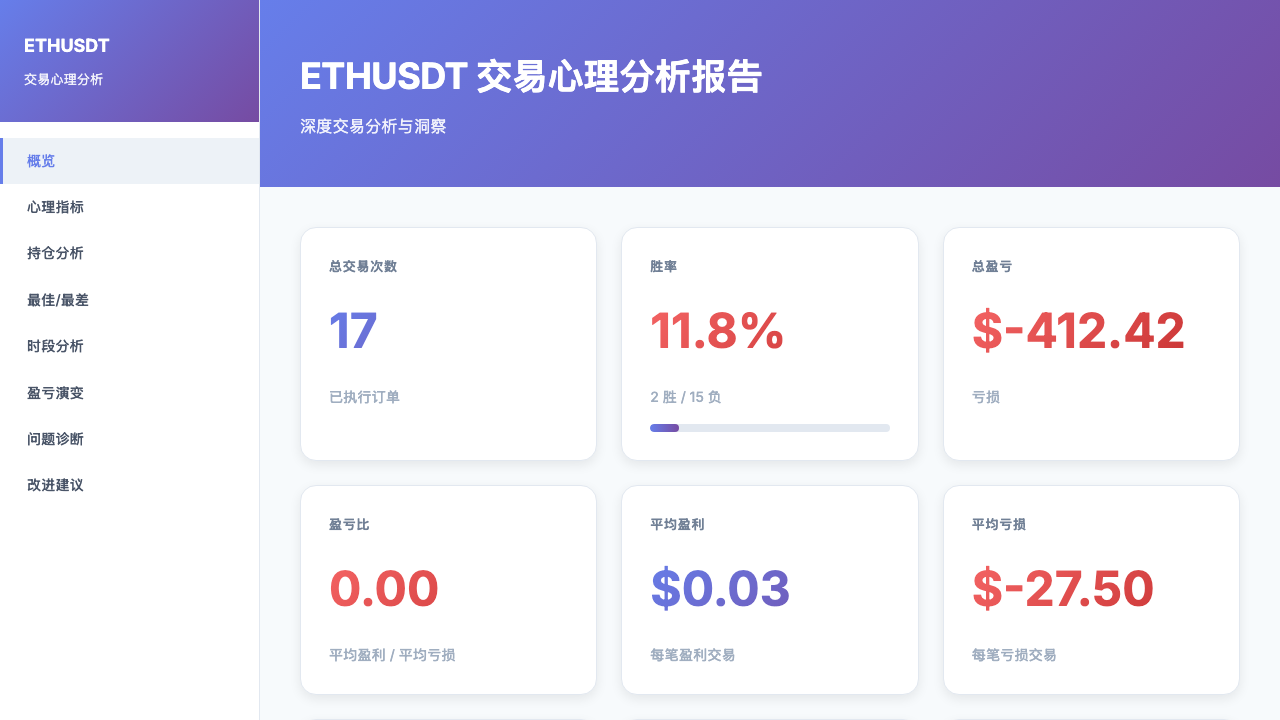
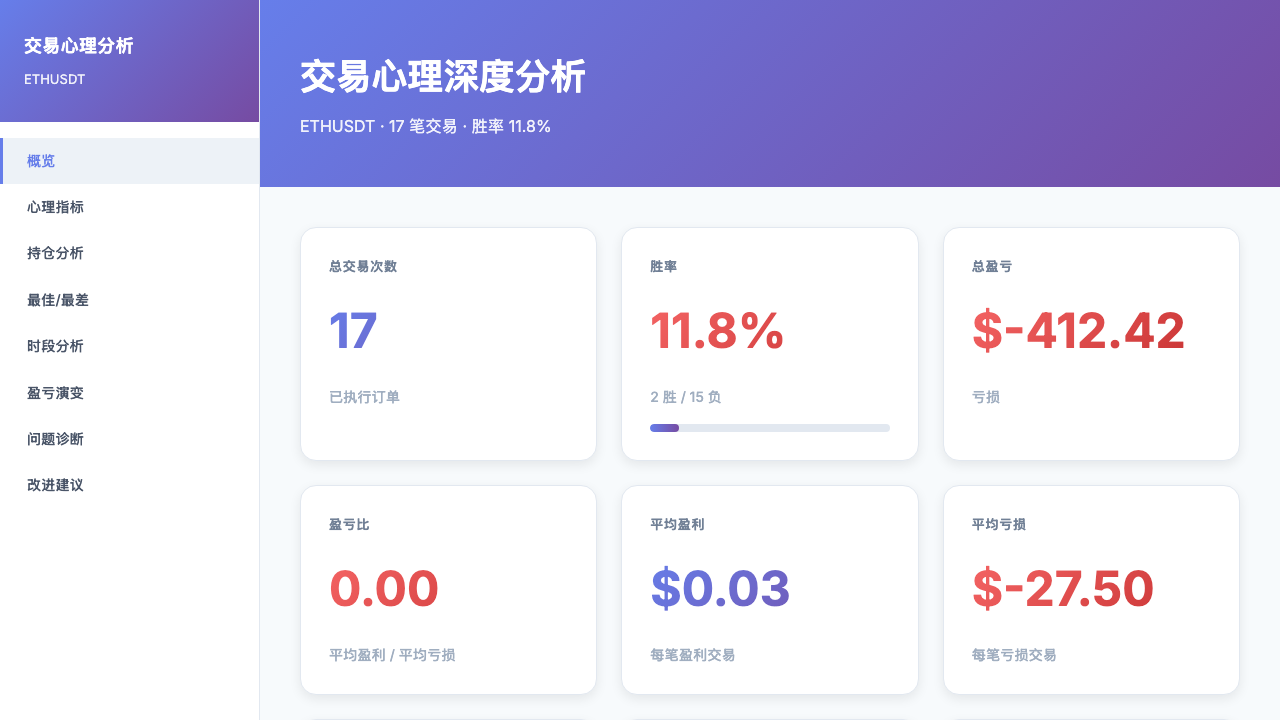
更新标题和副标题
- 主标题：交易心理深度分析
- 副标题：显示交易对、交易数、胜率
- 侧边栏：交易心理分析 + 交易对
- 更新截图

Changed region(s): [[0.2188, 0.0611, 0.5938, 0.1833], [0.0, 0.0306, 0.0938, 0.1222]]

diff --git a/visual-report.js b/visual-report.js
@@ -363,8 +363,8 @@ class VisualReport {
 <body>
   <div class="sidebar">
     <div class="sidebar-header">
-      <div class="sidebar-title">${this.data.symbol}</div>
-      <div class="sidebar-subtitle">交易心理分析</div>
+      <div class="sidebar-title">交易心理分析</div>
+      <div class="sidebar-subtitle">${this.data.symbol}</div>
     </div>
     <div class="nav-menu">
       <div class="nav-item active" onclick="scrollToSection('overview')">概览</div>
@@ -380,8 +380,8 @@ class VisualReport {
 
   <div class="main-content">
     <div class="header">
-      <h1>${this.data.symbol} 交易心理分析报告</h1>
-      <p class="subtitle">深度交易分析与洞察</p>
+      <h1>交易心理深度分析</h1>
+      <p class="subtitle">${this.data.symbol} · ${this.data.totalTrades} 笔交易 · 胜率 ${this.data.winRate}%</p>
     </div>
 
     <div class="stats-grid" id="overview">
